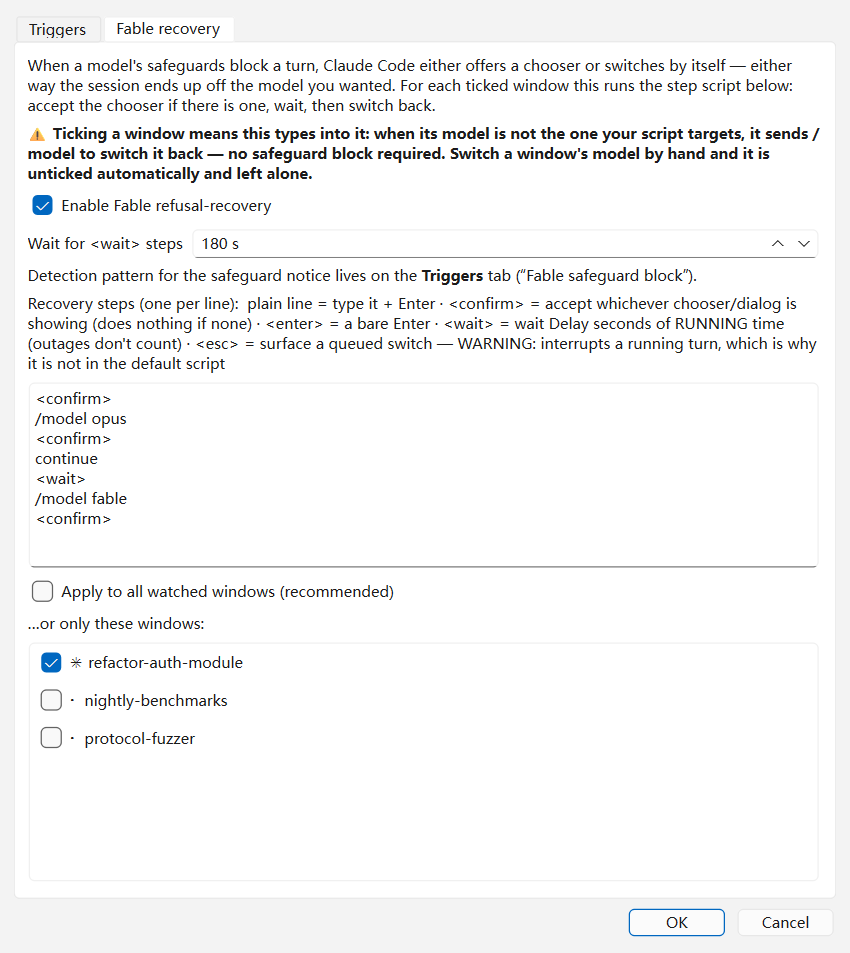
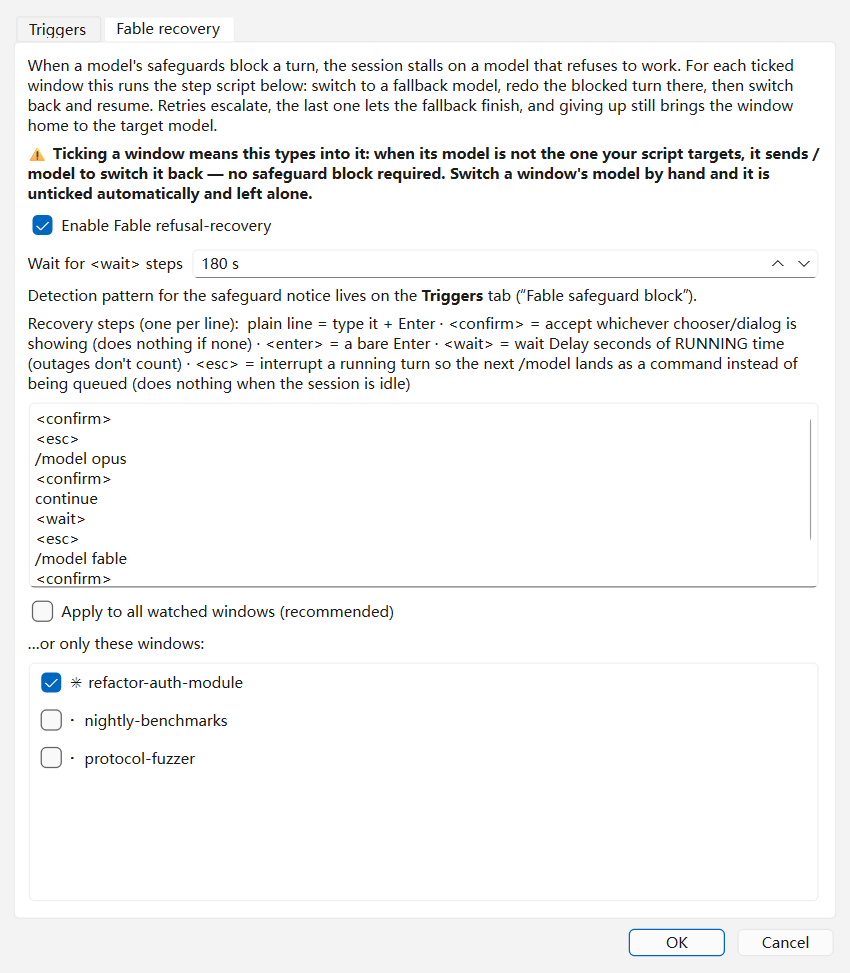
Catch the documentation up with the reversal
The ESC reversal and the escalation ladder changed what the feature IS,
and five pieces of text still described the old one: the step-glossary
comment, the Advanced dialog's intro and steps hint, the in-app help, the
README, and the promo article — whose "guardrails" card still promised
"never switches models mid-turn", the exact behaviour the user asked to
have inverted. The dialog screenshots are re-shot so the steps box shows
the shipping 10-step script.

Claude-Session: https://claude.ai/code/session_01EDyGgjySk6y8A188HNoiSa

Changed region(s): [[0.0306, 0.0304, 0.9482, 0.7912], [0.8871, 0.9433, 0.9482, 0.9738], [0.7647, 0.9433, 0.8259, 0.9738]]

diff --git a/docs/marketing/公众号推广文章_微信版.html b/docs/marketing/公众号推广文章_微信版.html
@@ -100,7 +100,7 @@
 
     <!-- 恢复流程 -->
     <p style="font-size:15px;color:#333;line-height:1.9;margin-bottom:12px;">
-      默认的恢复脚本是这七步，<b>每一步都可以在 Advanced 里自己改</b>：
+      默认的恢复脚本如下，<b>每一步都可以在 Advanced 里自己改</b>：
     </p>
 
     <table style="width:100%;border-collapse:collapse;margin-bottom:20px;font-size:13px;">
@@ -110,20 +110,28 @@
           <td style="padding:8px 12px;border:1px solid #e5e7eb;color:#374151;">如果弹了选择框就按确认；没有就跳过</td>
         </tr>
         <tr style="background:#fffbeb;">
+          <td style="padding:8px 10px;border:1px solid #e5e7eb;background:#fff7ed;color:#7c2d12;font-family:Consolas,monospace;white-space:nowrap;">&lt;esc&gt;</td>
+          <td style="padding:8px 12px;border:1px solid #e5e7eb;color:#374151;">会话正在出词就先打断 —— 否则下面的切换命令只会<b>排队而不生效</b>；空闲时什么都不做</td>
+        </tr>
+        <tr>
           <td style="padding:8px 10px;border:1px solid #e5e7eb;background:#fff7ed;color:#7c2d12;font-family:Consolas,monospace;white-space:nowrap;">/model opus</td>
           <td style="padding:8px 12px;border:1px solid #e5e7eb;color:#374151;"><b>自己切到备用模型</b>（已经在上面了就跳过，不重复切）</td>
         </tr>
-        <tr>
+        <tr style="background:#fffbeb;">
           <td style="padding:8px 10px;border:1px solid #e5e7eb;background:#fff7ed;color:#7c2d12;font-family:Consolas,monospace;white-space:nowrap;">&lt;confirm&gt;</td>
           <td style="padding:8px 12px;border:1px solid #e5e7eb;color:#374151;">确认切换对话框</td>
         </tr>
-        <tr style="background:#fffbeb;">
+        <tr>
           <td style="padding:8px 10px;border:1px solid #e5e7eb;background:#fff7ed;color:#7c2d12;font-family:Consolas,monospace;white-space:nowrap;">continue</td>
           <td style="padding:8px 12px;border:1px solid #e5e7eb;color:#374151;">在备用模型上把被拦的那一轮重做</td>
         </tr>
-        <tr>
+        <tr style="background:#fffbeb;">
           <td style="padding:8px 10px;border:1px solid #e5e7eb;background:#fff7ed;color:#7c2d12;font-family:Consolas,monospace;white-space:nowrap;">&lt;wait&gt;</td>
-          <td style="padding:8px 12px;border:1px solid #e5e7eb;color:#374151;">等 180 秒 —— 注意是<b>实际运行时间</b>，断网的时间不算</td>
+          <td style="padding:8px 12px;border:1px solid #e5e7eb;color:#374151;">等 180 秒 —— 注意是<b>实际运行时间</b>，断网的时间不算；重试时自动加量</td>
+        </tr>
+        <tr>
+          <td style="padding:8px 10px;border:1px solid #e5e7eb;background:#fff7ed;color:#7c2d12;font-family:Consolas,monospace;white-space:nowrap;">&lt;esc&gt;</td>
+          <td style="padding:8px 12px;border:1px solid #e5e7eb;color:#374151;">同上：备用模型还在出词就打断它 —— 它的产出本来就不是你要的</td>
         </tr>
         <tr style="background:#fffbeb;">
           <td style="padding:8px 10px;border:1px solid #e5e7eb;background:#fff7ed;color:#7c2d12;font-family:Consolas,monospace;white-space:nowrap;">/model fable</td>
@@ -132,6 +140,10 @@
         <tr>
           <td style="padding:8px 10px;border:1px solid #e5e7eb;background:#fff7ed;color:#7c2d12;font-family:Consolas,monospace;white-space:nowrap;">&lt;confirm&gt;</td>
           <td style="padding:8px 12px;border:1px solid #e5e7eb;color:#374151;">确认</td>
+        </tr>
+        <tr style="background:#fffbeb;">
+          <td style="padding:8px 10px;border:1px solid #e5e7eb;background:#fff7ed;color:#7c2d12;font-family:Consolas,monospace;white-space:nowrap;">continue</td>
+          <td style="padding:8px 12px;border:1px solid #e5e7eb;color:#374151;">回到原模型上把活接着干下去</td>
         </tr>
       </tbody>
     </table>
@@ -148,9 +160,9 @@
     <table style="width:100%;border-collapse:separate;border-spacing:8px;margin-bottom:12px;">
       <tr>
         <td style="width:50%;background:#f0fdf4;border:1px solid #bbf7d0;border-radius:8px;padding:14px 16px;vertical-align:top;">
-          <div style="font-size:20px;margin-bottom:6px;">⏸</div>
-          <div style="font-weight:700;font-size:14px;color:#14532d;margin-bottom:4px;">正在出词时绝不切模型</div>
-          <div style="font-size:13px;color:#4b5563;line-height:1.6;">切模型会在<b>这一轮内部</b>生效，等于把干到一半的活拦腰截断。所以切换前必须等这一轮跑完。实测拦下过一次：多等了 100 秒，保住了 86 秒的工作量。</div>
+          <div style="font-size:20px;margin-bottom:6px;">🔁</div>
+          <div style="font-weight:700;font-size:14px;color:#14532d;margin-bottom:4px;">失败会升级，不会死磕</div>
+          <div style="font-size:13px;color:#4b5563;line-height:1.6;">同一条拦截连试四次：每次给备用模型多 60 秒跑道（180/240/300 秒），最后一次改成<b>等它这轮自然跑完</b>再切回。四次都不行就明说放弃——并且仍会把窗口带回你选的模型，不会丢在备用模型上。</div>
         </td>
         <td style="width:50%;background:#f0fdf4;border:1px solid #bbf7d0;border-radius:8px;padding:14px 16px;vertical-align:top;">
           <div style="font-size:20px;margin-bottom:6px;">✋</div>

diff --git a/gui.py b/gui.py
@@ -141,27 +141,22 @@ def title_key(title: str) -> str:
 # Fable recovery is an editable "step script" — one step per line:
 #   plain text (e.g. /model opus, continue) → type it + Enter
 #   <confirm> → wait for the "Switch model?" dialog, press Enter (= Yes)
-#   <esc>     → press ESC to surface a QUEUED switch dialog — but ONLY if one
-#               isn't already showing (ESC on an open dialog cancels it).
-#               DANGEROUS: if a turn is running, ESC interrupts it. Not in the
-#               default script for that reason; opt in per window.
+#   <esc>     → make the session idle so the NEXT step lands as a command.
+#               Claude Code queues anything typed during a turn, and a queued
+#               /model never takes effect. Fires ONLY while a turn is running
+#               (idle = nothing to interrupt, and it would clear whatever the
+#               user half-typed), never onto an open dialog (it would cancel
+#               it), and never on the patient attempt (whose strategy is to
+#               let the fallback finish).
 #   <enter>   → press a bare Enter
 #   <wait> / <wait:N> → wait N seconds (bare <wait> uses the configured Delay)
-# Default flow. Two shapes occur in the wild and this handles both:
-#   * Claude Code shows a picker whose first option is the fallback model —
-#     <confirm> accepts it with a single Enter.
-#   * Claude Code switches on its own ("Switched to <model>.") — there is no
-#     modal at all, <confirm> simply times out, and the run is really just the
-#     switch BACK afterwards.
 #
-# <esc> is deliberately NOT in the default. It exists to surface a /model
-# queued behind a running turn, but ESC interrupts that turn — and in practice
-# the turn is the user's real work. Observed twice: it ended a queued
-# instruction, and later killed a task 5m50s in. The damage is irreversible
-# while the benefit is only landing the switch-back sooner. Without it the
-# worst case is that /model applies late or not at all, and the completion
-# check now says so out loud. Add it back per-window in the Advanced dialog if
-# a session is genuinely wedged behind a hung turn.
+# <esc> was once removed from the default after interrupting the USER's work
+# twice. It is back because what it interrupts changed: the recovery now
+# deliberately cuts the FALLBACK's turn short — that output is the thing the
+# user enabled this feature to avoid — and without ESC the /model after it is
+# merely queued. The old safety concern lives inside the step now (see the
+# firing rules above) instead of in leaving it out.
 # The script must be able to switch off the blocked model BY ITSELF. Relying
 # on Claude Code to offer a picker was a single point of failure and it failed:
 # the current build just prints "try a different model with /model" and leaves
@@ -3658,13 +3653,16 @@ capture groups it produced, and whether the match sits too far up the
 scrollback to count. Invalid patterns are refused rather than silently
 ignored; <b>Reset all</b> restores the built-ins.</p>
 <p><b>Model recovery</b> (opt-in, off by default) — when a model's safeguards
-block a turn, Claude Code either offers a chooser or switches by itself;
-either way the session ends up off the model you wanted. This accepts the
-chooser if there is one, waits, then switches back. It also <b>keeps the
-window on the target model</b>: if the session is left on the fallback with no
-notice showing, it steers back — after a grace period, spaced out and capped
-so it never fights you. The target is simply the last <code>/model</code> step
-in your script.</p>
+block a turn, the session stalls on a model that refuses to work. This
+switches to a fallback model, redoes the blocked turn there, and after a
+configurable stretch of real work switches back and resumes. Retries
+escalate: each attempt gives the fallback more runway, the last one waits for
+its turn to finish instead of cutting it short, and after that it gives up on
+the message — loudly — and still brings the window home to the target model.
+It also <b>keeps the window on the target</b>: if the session is left on the
+fallback with no notice showing, it steers back — after a grace period,
+spaced out and capped so it never fights you. The target is simply the last
+<code>/model</code> step in your script.</p>
 <p>If <b>you</b> switch a window's model by hand, that is taken as your
 decision: the window is unticked and left alone from then on. Tick it again
 in Advanced to resume enforcement.</p>
@@ -3676,10 +3674,10 @@ showing; does nothing if there is none</li>
 <li><code>&lt;wait&gt;</code> / <code>&lt;wait:N&gt;</code> — pause. Counts
 only time the session is actually <i>running</i>, so a network outage costs
 the recovery nothing</li>
-<li><code>&lt;esc&gt;</code> — surfaces a <code>/model</code> queued behind a
-busy turn. <b>Not in the default script:</b> it interrupts that turn, and in
-practice the turn is your real work. Add it only for a session wedged behind a
-hung turn</li>
+<li><code>&lt;esc&gt;</code> — interrupts a running turn so the next
+<code>/model</code> lands as a command instead of being queued (Claude Code
+queues anything typed mid-turn, and a queued switch never takes effect). Fires
+only while a turn is actually running; on an idle session it does nothing</li>
 </ul>
 
 <h3>Starting over</h3>
@@ -3742,11 +3740,12 @@ class AdvancedDialog(QDialog):
         root = QVBoxLayout(fable_tab)
 
         intro = QLabel(
-            "When a model's safeguards block a turn, Claude Code either offers "
-            "a chooser or switches by itself — either way the session ends up "
-            "off the model you wanted. For each ticked window this runs the "
-            "step script below: accept the chooser if there is one, wait, then "
-            "switch back."
+            "When a model's safeguards block a turn, the session stalls on a "
+            "model that refuses to work. For each ticked window this runs the "
+            "step script below: switch to a fallback model, redo the blocked "
+            "turn there, then switch back and resume. Retries escalate, the "
+            "last one lets the fallback finish, and giving up still brings "
+            "the window home to the target model."
         )
         intro.setWordWrap(True)
         root.addWidget(intro)
@@ -3786,9 +3785,9 @@ class AdvancedDialog(QDialog):
             "Recovery steps (one per line):  plain line = type it + Enter · "
             "<confirm> = accept whichever chooser/dialog is showing (does "
             "nothing if none) · <enter> = a bare Enter · <wait> = wait Delay "
-            "seconds of RUNNING time (outages don't count) · <esc> = surface a "
-            "queued switch — WARNING: interrupts a running turn, which is why "
-            "it is not in the default script")
+            "seconds of RUNNING time (outages don't count) · <esc> = interrupt "
+            "a running turn so the next /model lands as a command instead of "
+            "being queued (does nothing when the session is idle)")
         steps_hint.setWordWrap(True)
         root.addWidget(steps_hint)
         _steps_src = cfg.get("steps")

diff --git a/README.md b/README.md
@@ -78,7 +78,7 @@ python auto_continue.py --interval 60 --buffer 60 --match peak
 - **Single instance** — a second copy of the exe warns and exits instead of double-typing `continue` into the same windows.
 - **Persistent activity log** — everything in the log pane is also appended to `%LOCALAPPDATA%\auto_continue\activity.log` (rotated at ~1 MB) for overnight postmortems.
 - **Editable trigger patterns** (v1.0.16+) — **Advanced… → Triggers** exposes every detection regex (limit banner, limit picker, retry-exhausted, connection error, truncated response, dead session, and the two Fable ones) as an editable, case-insensitive pattern. Anthropic re-words these banners without notice — the `/extra-usage` → `/usage-credits` rename silently stopped detection until a new build shipped — so you can fix a wording change yourself the same day. Each row shows its purpose, a **Reset this / Reset all** button, and a live **test box**: paste the terminal text and it tells you what matched, which capture groups it produced, and whether the match sits too far up the scrollback to count at runtime. Overrides are validated on OK (must compile; must keep the capture groups the parser indexes; must not match empty text, which would fire on every window) and only genuinely-changed patterns are stored, so future builds' improved defaults still win for anything you didn't touch.
-- **Fable refusal-recovery** (v1.0.16+, **opt-in, off by default**) — when a model's safeguards block a turn, Claude Code either offers a two-option picker (first option = switch to a fallback model) or switches by itself. Either way the session ends up off your chosen model. For each eligible window this accepts the picker if there is one, waits, then switches back with `/model`. Steps are editable, one per line: plain text is typed + Enter, `<confirm>` accepts whichever confirmable modal is showing (safeguard picker or the `/model` *Switch model?* dialog) and does nothing if there is none, `<wait>` / `<wait:N>` pauses — and it banks only time the session is actually **running**, so a network outage costs the recovery nothing. `<esc>` exists to surface a `/model` queued behind a busy turn but is **not** in the default script: it interrupts that turn, and in practice the turn is your real work. Every step is bounded, and completion reports which model the session actually ended on, warning loudly if it is not the one the script asked for. Status shows **⇄ Fable-recover**. It also **keeps the window on the target model**: if the session ends up on the fallback with no safeguard notice showing — a switch-back that never landed, or Claude Code switching by itself — the watchdog steers it back with `/model`, after a grace period, spaced out and capped so it never fights you. The target is simply the last `/model` step in your script; a script without one enforces nothing. **If you switch a window's model by hand it is unticked automatically** and left alone — a deliberate choice is an instruction, not a fault to repair; tick it again to resume.
+- **Fable refusal-recovery** (v1.0.16+, **opt-in, off by default**) — when a model's safeguards block a turn, the session stalls on a model that refuses to work. For each eligible window this switches to a fallback model, redoes the blocked turn there, and after a configurable stretch of real work switches back and resumes. Retries escalate: each attempt for the same block gives the fallback 60s more runway, the attempt after the last impatient one waits for the fallback's turn to finish instead of cutting it short, and after that it gives up on the message — loudly — and still brings the window home to the target model. Steps are editable, one per line: plain text is typed + Enter, `<confirm>` accepts whichever confirmable modal is showing and does nothing if there is none, `<wait>` / `<wait:N>` pauses — banking only time the session is actually **running**, so a network outage costs the recovery nothing. `<esc>` interrupts a running turn so the next `/model` lands as a command instead of being queued (Claude Code queues anything typed mid-turn, and a queued switch never takes effect); it fires only while a turn is actually running, never on an idle session, never onto an open dialog, and never on the patient attempt. Every step is bounded, and the completion verdict is judged a beat after the run ends — once the screen has caught up with whether the closing `continue` was accepted or refused — warning loudly when the session ended on the wrong model or the block still stands. Status shows **⇄ Fable-recover**. It also **keeps the window on the target model**: if the session ends up on the fallback with no safeguard notice showing — a switch-back that never landed, or Claude Code switching by itself — the watchdog steers it back with `/model`, after a grace period, spaced out and capped so it never fights you. The target is simply the last `/model` step in your script; a script without one enforces nothing. **If you switch a window's model by hand it is unticked automatically** and left alone — a deliberate choice is an instruction, not a fault to repair; tick it again to resume.
 - Source files containing the literal string (e.g. test fixtures, this README).
 - Past limit messages still in scrollback that the user already handled.
 - Random text that happens to contain "You've hit your limit" but not the `/upgrade` follow-up.
